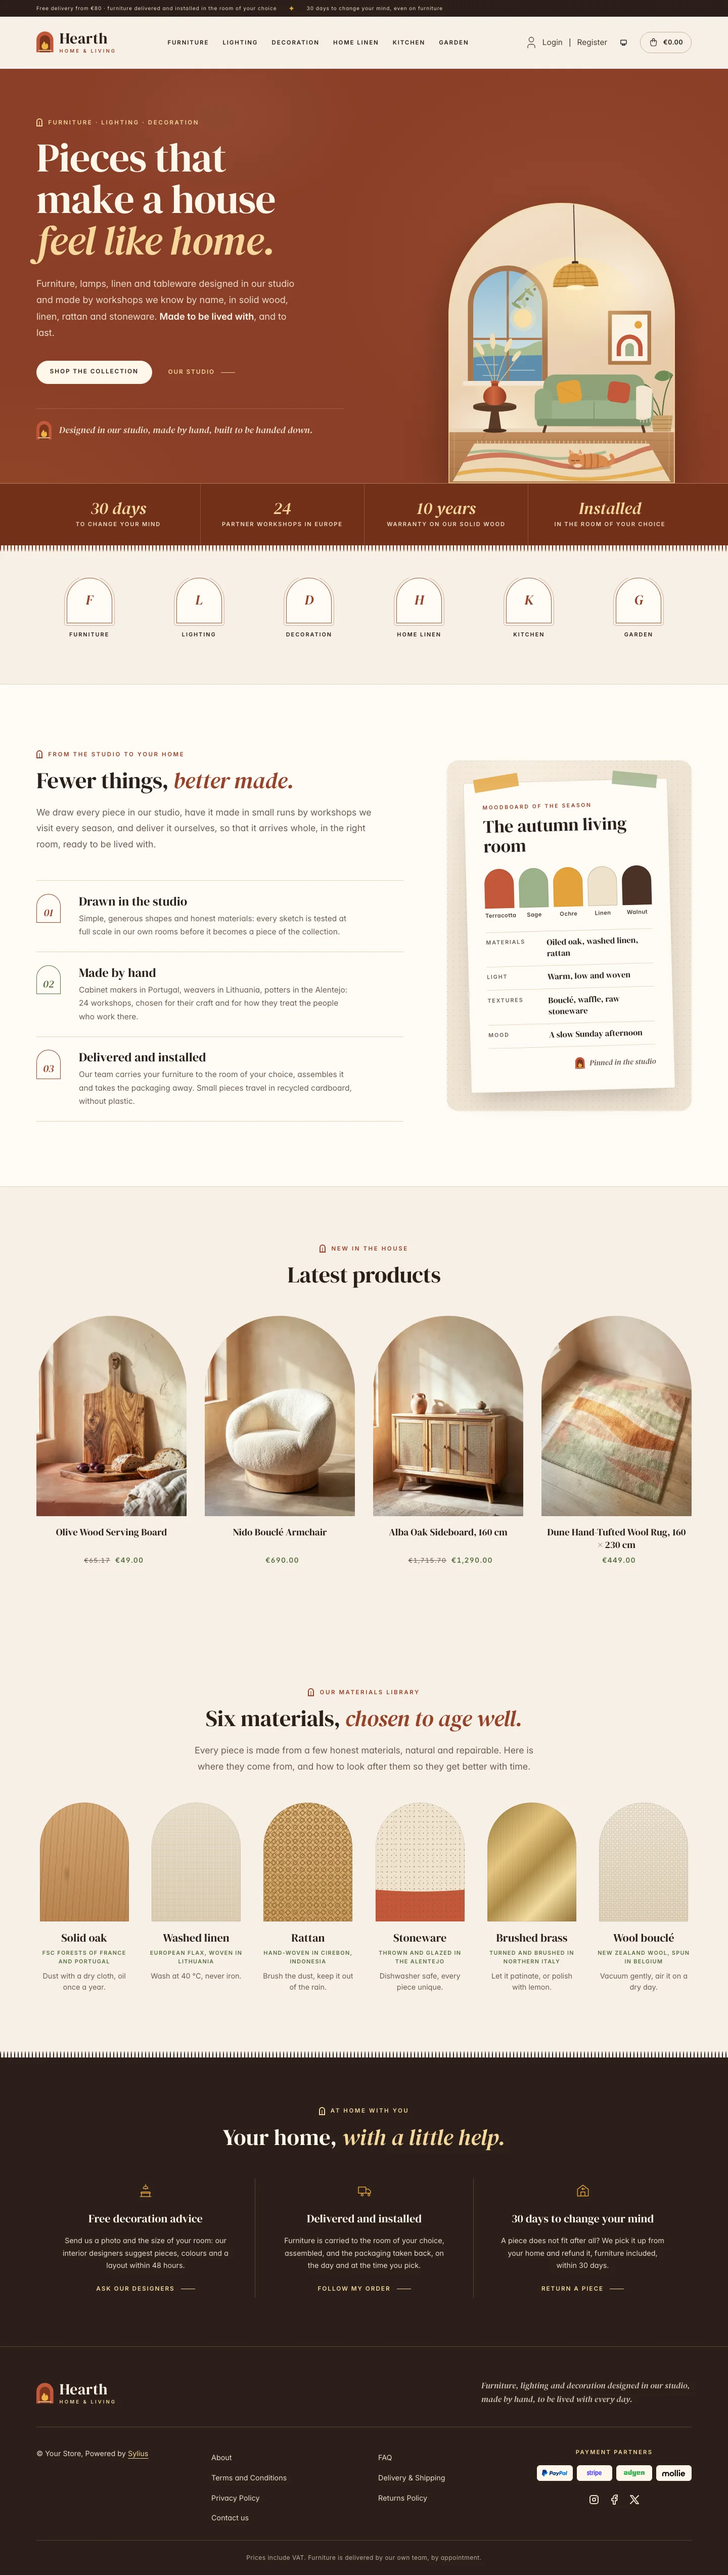
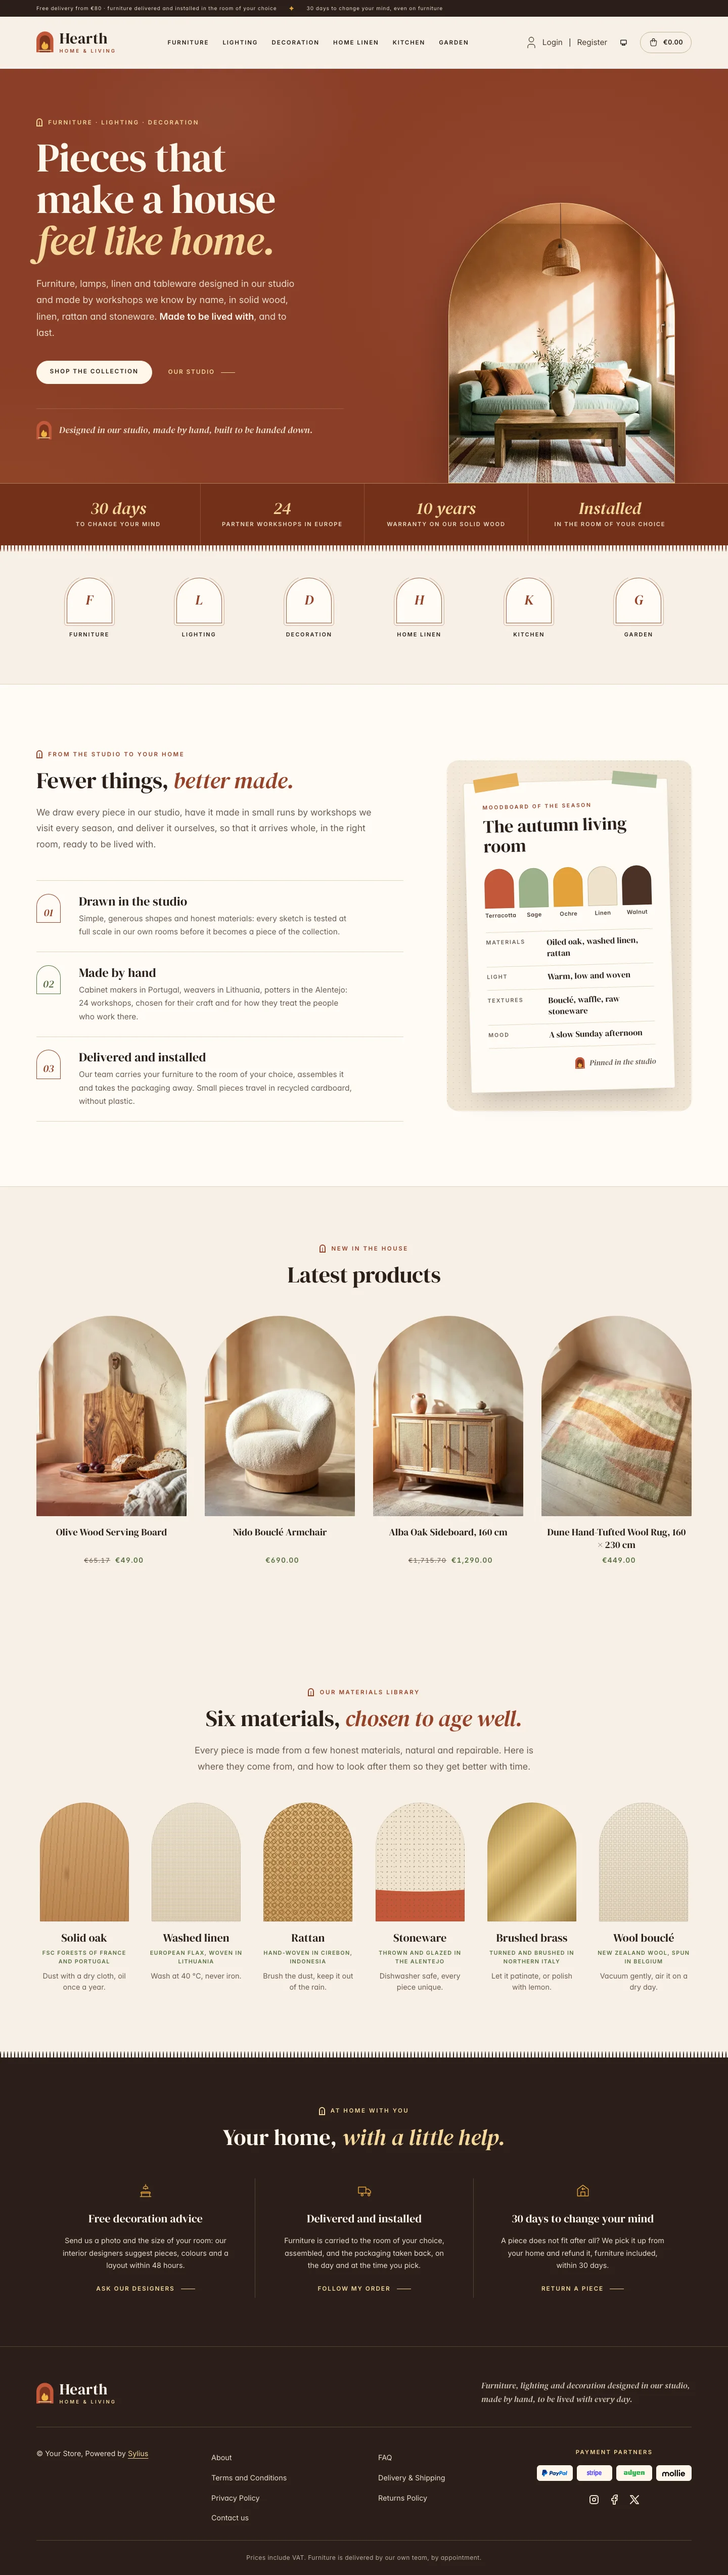
feat(hearth): Replace the hero illustration with a living room photograph
The hero arch now frames a photograph of the living room, in the morning
sun in the light scheme and at dusk, lit by its rattan pendant, in the
dark one. It is a background image, so each scheme only downloads its own
photograph. The SVG illustration and its styles are removed.

Changed region(s): [[0.5938, 0.0625, 0.9375, 0.1874]]

diff --git a/src/Themes/resources/hearth/assets/shop/styles/_hero.scss b/src/Themes/resources/hearth/assets/shop/styles/_hero.scss
@@ -1,5 +1,5 @@
-// Clay hero: a DM Serif Display headline closed by an ochre italic, and the living room seen through a plaster arch,
-// lit by a swaying rattan pendant. A band of house figures closes it, edged with the fringe of a rug.
+// Clay hero: a DM Serif Display headline closed by an ochre italic, and a photograph of the living room in an arch, in
+// the morning sun in the light scheme and at dusk, under the lit rattan pendant, in the dark one. A band of house figures closes it, edged with the fringe of a rug.
 
 .hearth-hero {
   position: relative;
@@ -92,90 +92,16 @@
   filter: drop-shadow(0 30px 40px rgba(#000, 0.3));
 }
 
-.hearth-hero__image {
+.hearth-hero__image,
+.hearth-hero__photo {
   border-radius: 999px 999px 0 0;
   box-shadow: inset 0 0 0 1px $ochre-light;
   object-fit: cover;
 }
 
-// The rattan pendant sways gently, and the cat flicks its tail in its sleep.
-@keyframes hearth-pendant {
-  0%,
-  100% {
-    transform: rotate(-2.5deg);
-  }
-
-  50% {
-    transform: rotate(2.5deg);
-  }
-}
-
-@keyframes hearth-tail {
-  0%,
-  80%,
-  100% {
-    transform: rotate(0);
-  }
-
-  88% {
-    transform: rotate(-14deg);
-  }
-}
-
-.hearth-living-room__pendant {
-  transform-box: view-box;
-  transform-origin: 232px 0;
-  animation: hearth-pendant 7s ease-in-out infinite;
-}
-
-.hearth-living-room__tail {
-  transform-box: view-box;
-  transform-origin: 292px 486px;
-  animation: hearth-tail 6s ease-in-out infinite;
-}
-
-// Dark scheme: night falls on the living room. The sky turns to ink with its stars, the sun to a moon, the walls dim
-// and the rattan pendant lights the room on its own.
-.hearth-living-room__stars {
-  opacity: if($dark, 1, 0);
-}
-
-@if $dark {
-  .hearth-living-room__wall {
-    fill: url(#hearth-living-room-dusk);
-  }
-
-  .hearth-living-room__wash,
-  .hearth-living-room__sunbeam {
-    opacity: 0;
-  }
-
-  .hearth-living-room__sky {
-    fill: url(#hearth-living-room-night);
-  }
-
-  .hearth-living-room__sun {
-    fill: #F3EBD6;
-  }
-
-  .hearth-living-room__halo {
-    fill: #F3EBD6;
-    fill-opacity: 0.12;
-  }
-
-  .hearth-living-room__hills {
-    fill: #3E4A3A;
-  }
-
-  .hearth-living-room__sea {
-    fill: #27355A;
-  }
-
-  .hearth-living-room__glow {
-    transform: scale(1.35);
-    transform-box: fill-box;
-    transform-origin: 50% 20%;
-  }
+// A background image, so that each scheme only downloads its own photograph.
+.hearth-hero__photo {
+  background: $clay-deep url(if($dark, "../images/hero-dusk.webp", "../images/hero-day.webp")) 50% 0 / cover no-repeat;
 }
 
 // House figures, closed by the fringe of a rug hanging over the page.
@@ -254,10 +180,8 @@
   }
 }
 
-// The pendant, the cat and the flame stand still for visitors who prefer reduced motion.
+// The flame stands still for visitors who prefer reduced motion.
 @media (prefers-reduced-motion: reduce) {
-  .hearth-living-room__pendant,
-  .hearth-living-room__tail,
   .hearth-logo:hover .hearth-mark__flame {
     animation: none;
   }

diff --git a/docs/themes/hearth.md b/docs/themes/hearth.md
@@ -1,6 +1,6 @@
 ---
 title: Hearth theme
-description: A warm home, decoration and furniture store in terracotta clay, linen and sage, with DM Serif Display headings, arched product niches and a sunlit living room hero.
+description: A warm home, decoration and furniture store in terracotta clay, linen and sage, with DM Serif Display headings, arched product niches and a living room photograph in the hero.
 sidebar:
   order: 17
 ---
@@ -36,7 +36,8 @@ opens an arch onto a living room, and the bands end in the fringe of a woven rug
   ochre (`#E3A33B`, `#F6D79B` on the dark bands) and a deep terracotta (`#96432A`) for eyebrows and accent text.
 - **Dark scheme** — the living room at dusk: walnut shadows (page `#18120F`, surfaces `#211915`), lamp-lit linen type,
   a fired terracotta (`#A44D2E`) for buttons, a warm peach (`#F0A783`) for accent text and a pale sage (`#BACD9F`), with
-  ochre hairlines on the walnut bands. The hero clay takes the colour of the evening, and night falls in its window.
+  ochre hairlines on the walnut bands. The hero clay takes the colour of the evening, and its living room is lit by the
+  pendant.
 - **Typography** — *DM Serif Display* (SIL Open Font License, roman and italic, shipped in `assets/shop/fonts/`) for
   headings, product names and figures, with ochre and terracotta italics; *Inter* (already shipped by the Sylius shop)
   for body copy, and spaced uppercase small capitals for eyebrows, navigation, buttons and breadcrumbs.
@@ -50,11 +51,11 @@ opens an arch onto a living room, and the bands end in the fringe of a woven rug
   the ochre flame of the hearth, which flickers on hover) and the *Hearth* wordmark, centered category navigation
   underlined in terracotta.
 - **Homepage** — a clay hero: an eyebrow, a DM Serif Display headline ending in ochre italic, two calls to action and a
-  signature with the house mark. On the right, the **living room** seen through a plaster arch: an arched window onto
-  the sea and an olive branch, a rattan pendant that sways over a sage sofa with its ochre and terracotta cushions, a
-  walnut side table with a terracotta vase of dried grasses, a print of arches, a plant in a woven basket and a ginger
-  cat asleep on a wool rug, flicking its tail. In the dark scheme the window turns to night, with a moon and stars, and
-  the pendant lights the room. A band of **house figures** (returns, partner workshops, solid wood warranty,
+  signature with the house mark. On the right, a photograph of the **living room** in an arch: limewashed terracotta
+  walls, a sage linen sofa with its ochre and rust cushions, an oak coffee table with a stoneware vase of
+  olive branches, a rattan pendant and a striped wool rug, in the morning sun. In the dark scheme the same room is shown
+  at dusk, lit by its pendant, with the evening sky in the window; each scheme only downloads its own photograph
+  (`assets/shop/images/`). A band of **house figures** (returns, partner workshops, solid wood warranty,
   installation) closes the hero. The promise block (`theme_promise` hookable) presents the studio in three steps
   numbered in arched windows (drawn, made by hand, delivered and installed), next to the **moodboard of the season**:
   a linen card taped askew to the studio wall, with five arched paint chips (terracotta, sage, ochre, linen, walnut)

diff --git a/docs/themes/index.md b/docs/themes/index.md
@@ -50,7 +50,7 @@ Looks built around one kind of shop, with their own typography and homepage.
 | <a href="summit.md"><img src="../images/summit-homepage-wide-light.webp" alt="Summit storefront homepage on a wide screen, light scheme" width="140"></a><br><a href="summit.md"><img src="../images/summit-homepage-wide-dark.webp" alt="Summit storefront homepage on a wide screen, dark scheme" width="140"></a> | [Summit](summit.md) | Outdoor and adventure gear: full-bleed mountain photography, forest green, mineral grey, orange accents, condensed capitals and shop by activity |
 | <a href="groove.md"><img src="../images/groove-homepage-wide-light.webp" alt="Groove storefront homepage on a wide screen, light scheme" width="140"></a><br><a href="groove.md"><img src="../images/groove-homepage-wide-dark.webp" alt="Groove storefront homepage on a wide screen, dark scheme" width="140"></a> | [Groove](groove.md) | Premium independent record store: ink and warm paper, saturated sleeve colours, a heavy grotesque with serif italic accents, large cover compositions and records sliding out of their sleeves |
 | <a href="arena.md"><img src="../images/arena-homepage-wide-light.webp" alt="Arena storefront homepage on a wide screen, light scheme" width="140"></a><br><a href="arena.md"><img src="../images/arena-homepage-wide-dark.webp" alt="Arena storefront homepage on a wide screen, dark scheme" width="140"></a> | [Arena](arena.md) | Modern video game store: game launcher, acid lime, wide display type and a cinematic key-art hero |
-| <a href="hearth.md"><img src="../images/hearth-homepage-wide-light.webp" alt="Hearth storefront homepage on a wide screen, light scheme" width="140"></a><br><a href="hearth.md"><img src="../images/hearth-homepage-wide-dark.webp" alt="Hearth storefront homepage on a wide screen, dark scheme" width="140"></a> | [Hearth](hearth.md) | Home, decoration and furniture store: terracotta clay, linen and sage, DM Serif Display headings, arched product niches and a sunlit living room hero |
+| <a href="hearth.md"><img src="../images/hearth-homepage-wide-light.webp" alt="Hearth storefront homepage on a wide screen, light scheme" width="140"></a><br><a href="hearth.md"><img src="../images/hearth-homepage-wide-dark.webp" alt="Hearth storefront homepage on a wide screen, dark scheme" width="140"></a> | [Hearth](hearth.md) | Home, decoration and furniture store: terracotta clay, linen and sage, DM Serif Display headings, arched product niches and a living room photograph in the hero |
 | <a href="depot.md"><img src="../images/depot-homepage-wide-light.webp" alt="Depot storefront homepage on a wide screen, light scheme" width="140"></a><br><a href="depot.md"><img src="../images/depot-homepage-wide-dark.webp" alt="Depot storefront homepage on a wide screen, dark scheme" width="140"></a> | [Depot](depot.md) | Trade supplies and B2B: a trade catalogue in white, steel and navy with a teal call to action, Outfit headings, a photo banner, department cards, catalogue lines with stock and reference, and a price break band |
 
 ## Terminal
